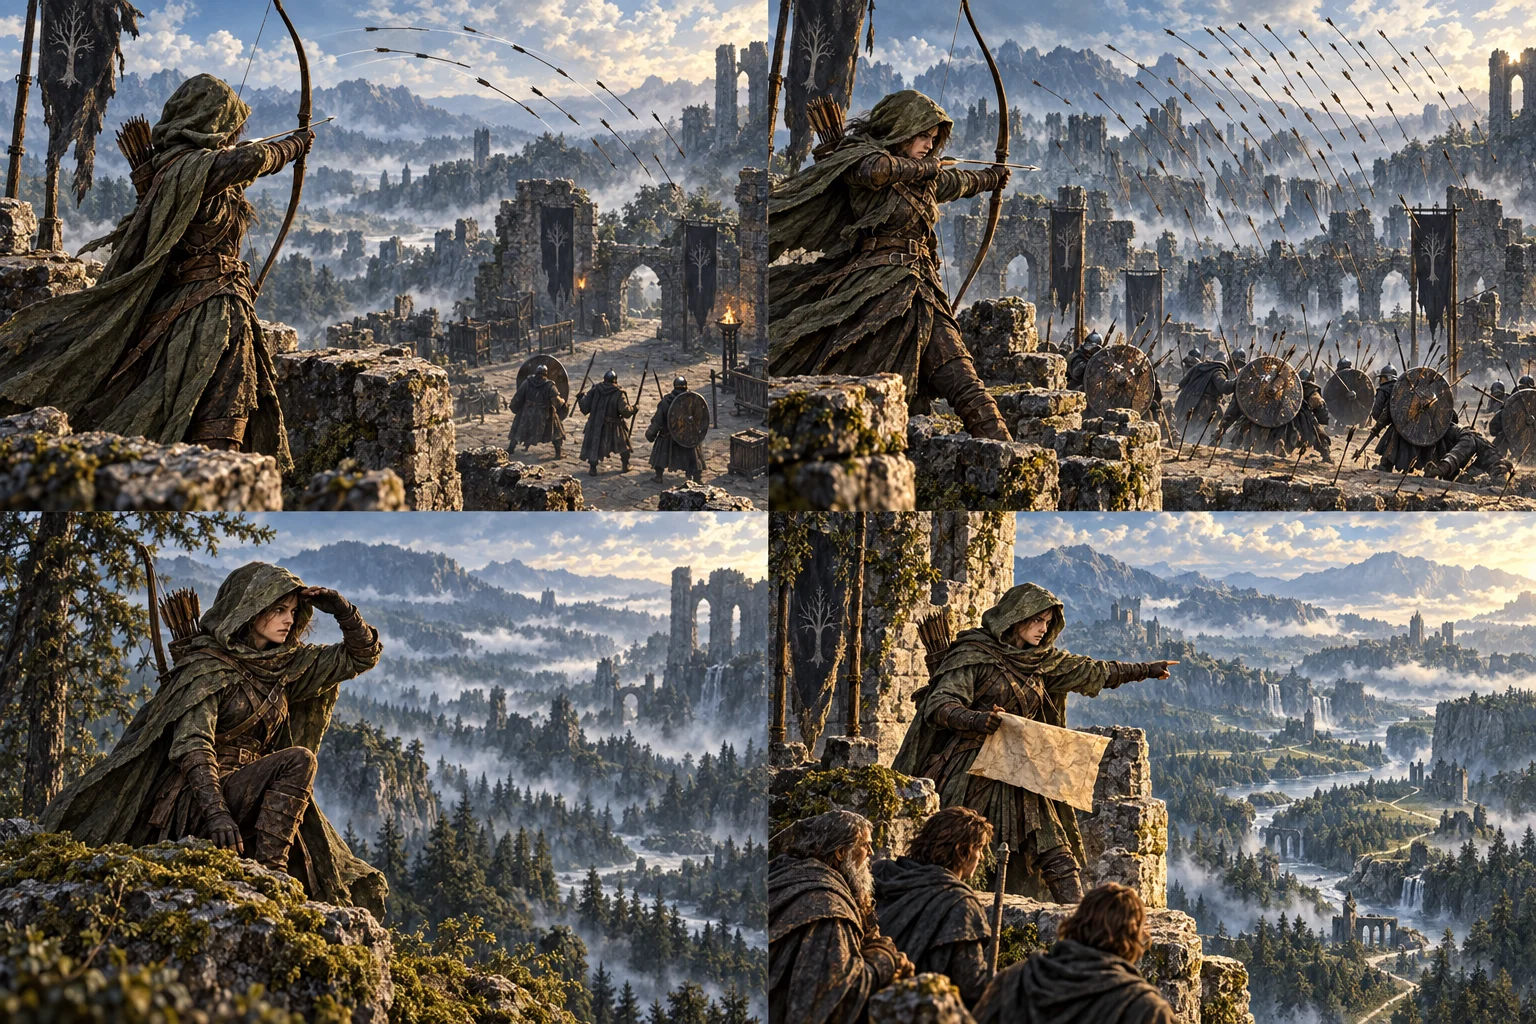
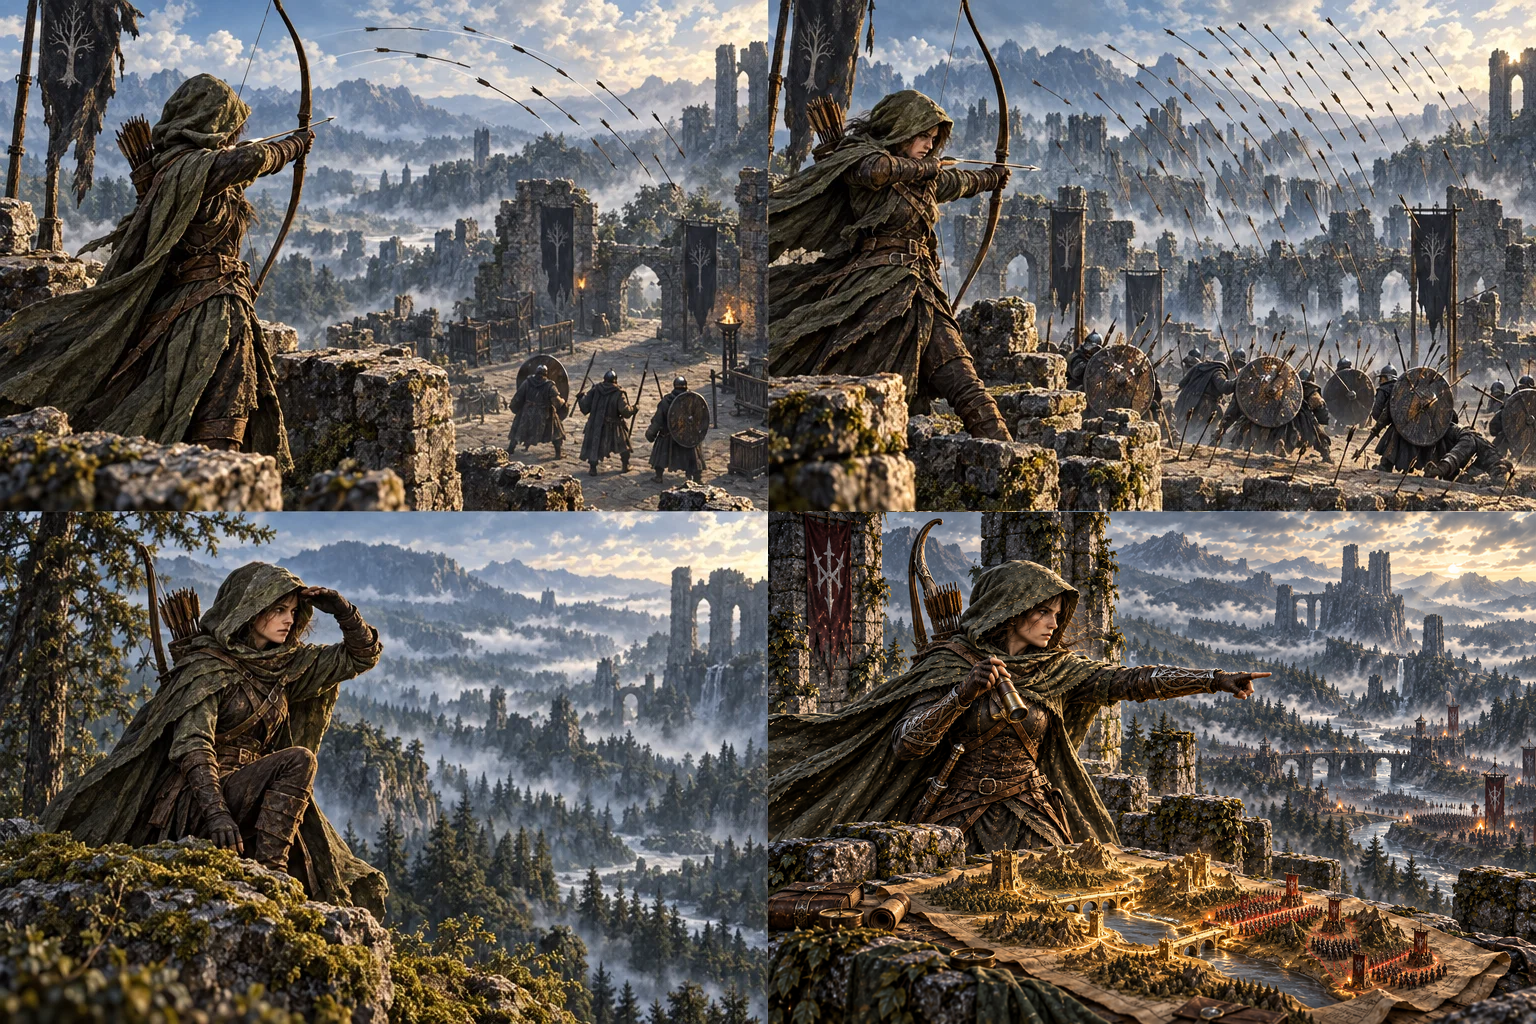
feat(art): strengthen seventeen upgraded card illustrations
Why:
- Upgrades should show stronger equipment or abilities rather than the next frame of the base artwork.

What:
- Replace seventeen upgraded illustrations after reviewing all thirty-two pairs.
- Preserve all base illustrations and fifteen retained upgrades pixel-for-pixel.
- Record individual PNG sources and review decisions for future art and video work.

Validation:
- bun run build
- bun test (95 passed)
- bun scripts/card-layout.ts http://localhost:30081
- Verified seventeen replacement cells and forty-seven unchanged cells; inspected rendered comparisons.

LOC: src/     +0 / -0 = net +0
  tests/   +0 / -0 = net +0
  *.md    +52 / -0 = net +52
  Total   +52 / -0 = net +52
Amp-Thread-ID: https://ampcode.com/threads/T-01a0a448-8f31-72b6-8985-43bd1fdd4ca5

Changed region(s): [[0.5, 0.5, 1.0, 1.0]]

diff --git a/CARD_ART_PROVENANCE.md b/CARD_ART_PROVENANCE.md
@@ -2,6 +2,8 @@
 
 This art-only pass supplies 32 matched base/upgraded pairs, 64 original illustrations, in 16 locally bundled WebP sheets. Amp Painter generated one image per call. No third-party artwork was downloaded. The existing companion portraits and card art were references for the same project's character identities and romantic wilderness style. This records generation sources, not a legal claim of copyright exclusivity.
 
+The original production history below is preserved. The **Upgrade-strength revision** section at the end records the current replacements and supersedes the original upgraded cells for those cards.
+
 Source thread: https://ampcode.com/threads/T-01a0a0c3-3692-7658-8a4a-87cbbc7c07fa
 
[1 lines of base64/hex data omitted]
@@ -108,3 +110,53 @@ Every final optimized sheet was inspected with `view_media`, including all adopt
 Remaining visual limitations are deliberate cinematic foreground occlusion in some base combat scenes, dense dark foliage in stealth paintings, and small secondary hand/tool details that soften at thumbnail size. Iron answer, Twin arrows, Cinder lance, and Old knowledge have closer base/upgrade silhouettes at 192 × 128, though their action or mastery details differ and the integration thread approved their readability. Companion faces vary slightly with angle and scene scale. Some arrow trajectories and ruined architecture are illustrative rather than physical simulations. No readable generated text, card rules, or UI is baked into the assets. Old knowledge uses pictorial diagrams only. Adding companions or depicting a wider action in an upgrade illustrates mastery, not an additional gameplay effect.
 
 The integration thread has already downloaded all 16 sheets. Only `CARD_ART_PROVENANCE.md` remains to transfer. The archive request was withdrawn, so no archive is needed. No push, deployment, or UI implementation was performed by this art task.
+
+## Upgrade-strength revision
+
+The user approved the new True shot direction and requested a review of every pair. This pass replaces 17 upgraded illustrations and retains 15. All 32 base illustrations remain unchanged. The goal is a visible increase in equipment, protection, mastery, or effects, rather than the next frame of the base scene. These are illustrations, not changes to card mechanics.
+
+Source thread: https://ampcode.com/threads/T-01a0a448-8f31-72b6-8985-43bd1fdd4ca5
+
+Each replacement was generated as an individual 1536 × 1024 PNG using its base illustration as a reference. The approved True shot also supplied equipment/style guidance for selected ranger paintings and Steady blade. Download sources with `amp files get`. Resize to 768 × 512 for the existing cell geometry; do not crop these standalone sources into four cells.
+
+| ID | Replacement filename | Upgrade decision | Standalone PNG source |
+| --- | --- | --- | --- |
+| strike | steady-blade-upgraded.png | Reinforced plate accents, gauntlet, shield and etched longsword; clearer equipment tier. | https://ampcode.com/user-content/attachments/56e57f23635648724f1f30e284cfca7cd007eacfa9fec30ebb9071590e1b1611-file.png |
+| arrow | true-shot-upgraded.png | User-approved reinforced ranger gear, ornate bow and charged arrow. | https://ampcode.com/user-content/attachments/f1bf89033324f6bcfe26ce9de9918eed0a2fd5109277415fbe39606eb4e8586a-file.png |
+| unseen | walk-unseen-upgraded.png | Leaf-like concealment veil visibly covers the fellowship. | https://ampcode.com/user-content/attachments/9af3b0a9910c783c76852b0dd0bc71d5abcd89939e1d1b13a9ad468a504d1b3d-file.png |
+| defiance | defiance-upgraded.png | Reinforced armor, empowered shield and resolute stance amid recoiling foes. | https://ampcode.com/user-content/attachments/42c1b72a9d3186db5fb9f728b7c59bb4400b2090b4fe674af65ee683d2831e6c-file.png |
+| challenge | challenge-upgraded.png | Strong shield emblem and broad challenge effect against surrounding enemies. | https://ampcode.com/user-content/attachments/68713007ebbf27af8b4847994352f663287fd8d57e397cf4319a7fb2c34e002f-file.png |
+| oath | an-unbroken-oath-upgraded.png | Luminous oath ribbon links and protects the three companions. | https://ampcode.com/user-content/attachments/450e2ed4350e627a12e80acba65c3747bec1f0e143eeb733c5ccb27849ef5eb1-file.png |
+| rally | rally-together-upgraded.png | Armored coordinated advance with shared light linking the fellowship. | https://ampcode.com/user-content/attachments/5f03fa9102b3e16d76399ee54e721e06b3daa70675b2c965a50f7fdc74e55f9a-file.png |
+| needle | through-the-leaves-upgraded.png | Upgraded bow and bracers; wind parts foliage around a precise shot. | https://ampcode.com/user-content/attachments/23785d2bdbf3a6d5b27b1e3fbe26fcafd55148da05e77aee4799970e160f1a32-file.png |
+| scout | higher-ground-upgraded.png | Spyglass, improved equipment and a detailed illuminated tactical terrain model. | https://ampcode.com/user-content/attachments/ad1b24b6c8648af39c9ebc3a6c9c7747570975a474a65fc8f13a53db87341d45-file.png |
+| feint | a-small-opening-upgraded.png | Reinforced bracers, paired close-combat blades and highlighted armor weakness. | https://ampcode.com/user-content/attachments/50338ac8fb03603132dd35797c24a0d0bd6722e5c4b2a60b9c15cbfc26b9fc83-file.png |
+| silence | quiet-as-snowfall-upgraded.png | Winter camouflage equipment and a visible silence veil through snow. | https://ampcode.com/user-content/attachments/d5ed8100e08ee426579b2b40a9827234d365bcace9335f4c968709dc11baf93d-file.png |
+| trail | hidden-trail-upgraded.png | Improved ranger gear and a luminous sheltered root path across a ravine. | https://ampcode.com/user-content/attachments/6dbb0e595db6feab2977ed73836ecad51c9bd0274c713a520428531ac208047a-file.png |
+| resolve | face-the-darkness-upgraded.png | Stronger lantern rays visibly part the surrounding shades. | https://ampcode.com/user-content/attachments/0c79caa7d8215178e5798199077a1cb6da7c159d009dfffe858adafc25c0fba1-file.png |
+| remember | old-knowledge-upgraded.png | A luminous beacon reconstruction rises from the ancient tome. | https://ampcode.com/user-content/attachments/688366ab3e963e7a0465438b4c277ea8b916514def6b208f5c92320a13c3a8cc-file.png |
+| sunrise | one-more-dawn-upgraded.png | Restorative light reaches all companions, with fresh growth among the stones. | https://ampcode.com/user-content/attachments/3a9c87765aa4e435f36356bd6f6b83049db3c02e9f6d0385e3c548c10704c791-file.png |
+| courage | small-courage-upgraded.png | A small charm expresses shared courage through three protective silhouettes. | https://ampcode.com/user-content/attachments/f2d1c458f8420d34c60385dfb64e8429f9130319544a6780d0a1c490825b79ec-file.png |
+| lantern | keep-the-lantern-upgraded.png | Reinforced lantern cage and a storm-deflecting lattice of light. | https://ampcode.com/user-content/attachments/2067e6907abc75da298c453516af5aa5129c9565233564595f8e866e40ef1cc4-file.png |
+
+Retained upgrades, reviewed individually:
+
+- Ancient flame: the small flame already becomes a large fire vortex.
+- Shelter: the raised shield withstands a broader arrow barrage while protecting companions.
+- Hold the pass: the fighter visibly drives back a massed spear line at a bottleneck.
+- Shield-bearer: the shield bash visibly throws an armored opponent off balance.
+- Iron answer: the impact splinters the enemy's buckler, showing stronger force.
+- Last stand: the low rubble shelter becomes a commanding defensive position above the fallen gate.
+- Rain of arrows: the upgraded volley visibly covers a broader area with more arrows.
+- Twin arrows: two simultaneous arrows make the increased attack readable.
+- Borrowed fire: a single coal becomes energy distributed between companions.
+- Light the dark: a small ring becomes broad radiating flame waves.
+- Cinder lance: the narrow beam becomes a thicker braided impact blast.
+- Ember ward: the partial arc becomes a full protective dome over the fellowship.
+- Shared bread: a small piece of bread becomes a full hot communal meal.
+- Shoulder the burden: individual struggling packs become a shared carrying pole.
+- A promise of home: the imagined cottage becomes active restoration of a real shelter.
+
+Integration replaces only the selected right-column cells in 12 sheets. Modified sheets use lossless WebP to preserve all other decoded cells exactly; the four untouched sheets retain their original bytes. The current 16 sheets total 27,492,214 bytes, about 26.22 MiB. This increases download size relative to the initial lossy set, but avoids another compression pass on retained artwork. The 17 standalone full-resolution PNG sources are also exported separately for video generation, alongside a refreshed 64-image export at 768 × 512.
+
+Verification: 17 replacement cells match their resized sources, and the remaining 47 cells match the prior runtime images pixel-for-pixel. All 16 sheets decode at 1536 × 1024 in Chromium. The production build and 95 tests pass. The existing card-layout check covers all 32 base/upgrade pairs in camp and inspection views at 390 and 1280 CSS pixels. New True shot, Old knowledge, and Quiet as snowfall comparisons were inspected in the running game; narrow-view scrolling was also checked. Three labelled base/old/new contact sheets cover every replacement. The PNG ZIPs contain 64 current card crops and 17 new full-resolution upgrades respectively, with archive integrity checks passing.
